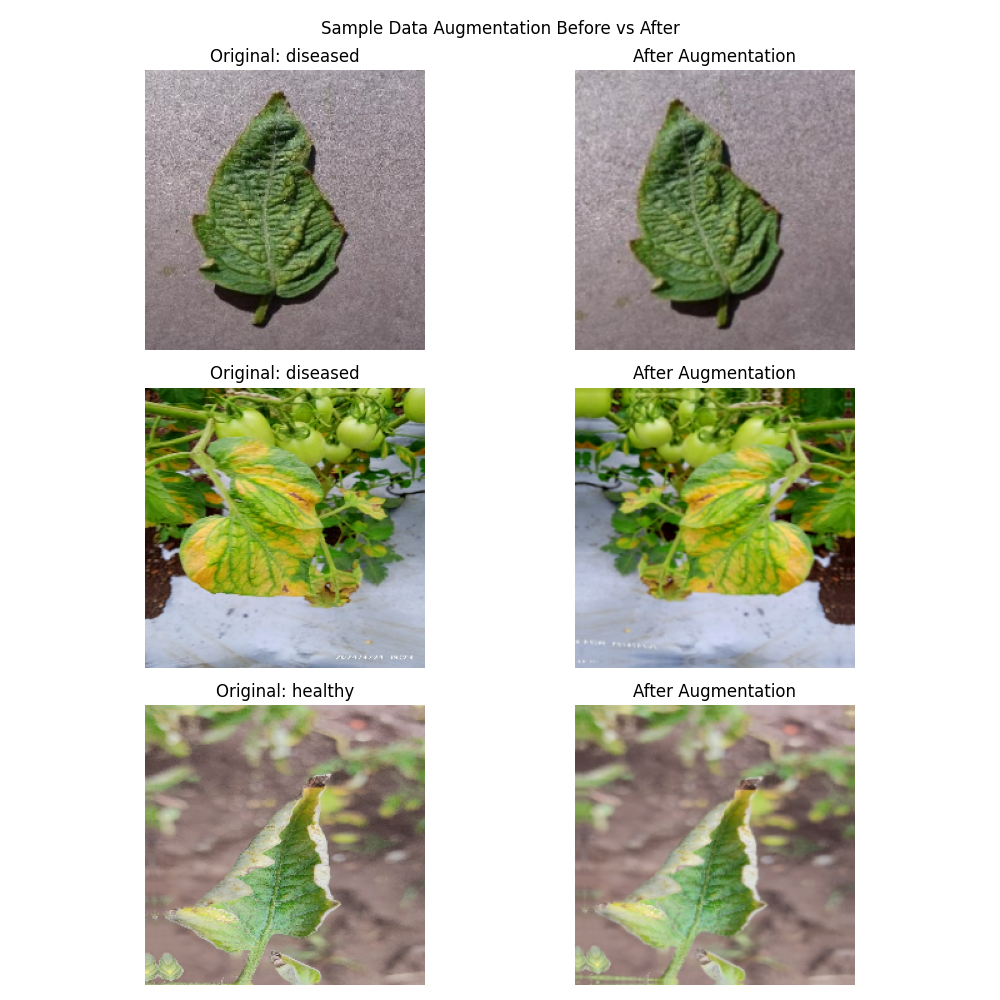
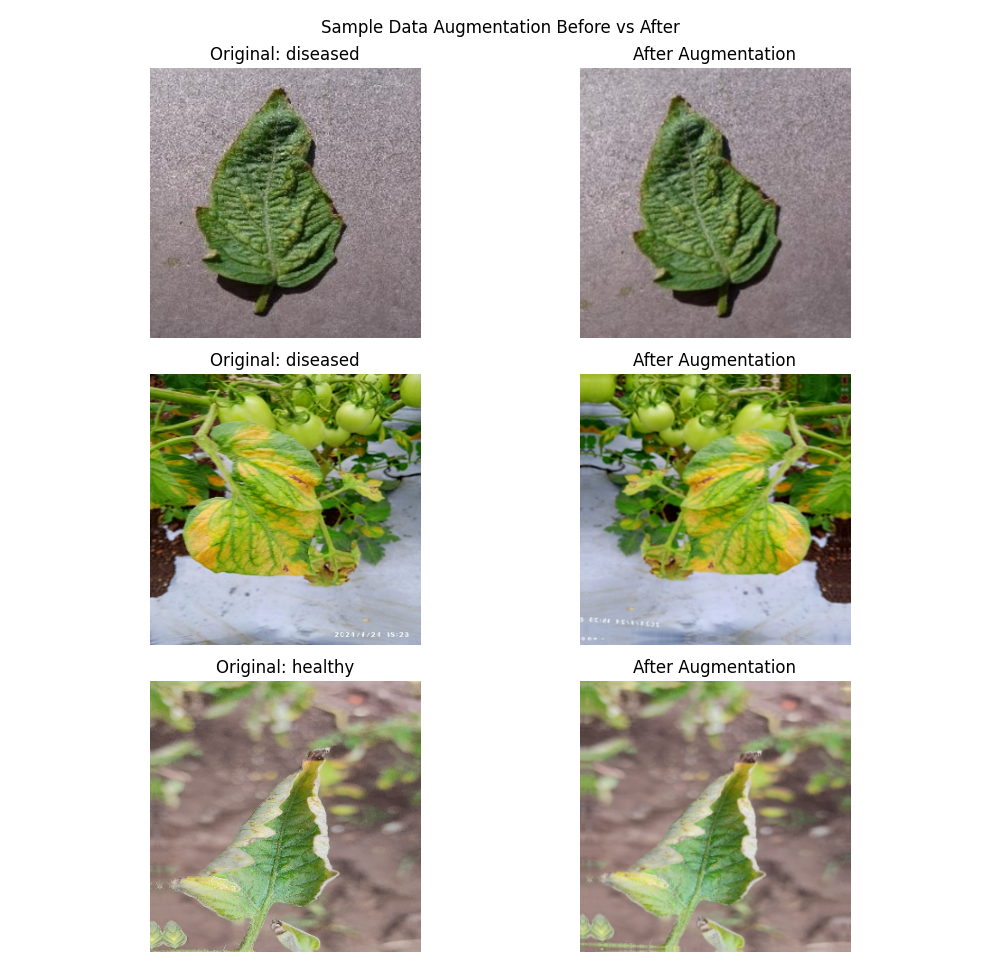
feat:(ResNet) Opt Models ResNet Acc 99%

diff --git a/DL/ResNet/Base/resnet_base.py b/DL/ResNet/Base/resnet_base.py
@@ -16,7 +16,7 @@ import platform
 BASE_DIR = Path(__file__).resolve().parent
 base_dir = BASE_DIR.parent.parent.parent / "TomatoBinaryDataset"
 
-IMAGE_SIZE = (224, 224)
+IMAGE_SIZE = (300, 300)
 BATCH_SIZE = 32
 SEED = 123
 VALIDATION_SPLIT = 0.2